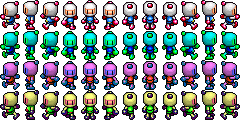
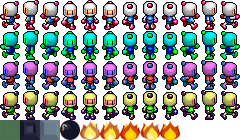
Before removing stuff for lesson.

diff --git a/client.go b/client.go
@@ -7,6 +7,7 @@ import (
 	"golang.org/x/image/colornames"
 	"image"
 	_ "image/png"
+	"math/rand"
 	"os"
 	"time"
 )
@@ -22,7 +23,9 @@ var (
 	win    *pixelgl.Window
 
 	sprite [4][4][4]*pixel.Sprite
+	tile   [12]*pixel.Sprite
 	batch  *pixel.Batch
+	level  [12][9]int
 )
 
 func loadImageFile(path string) (image.Image, error) {
@@ -62,13 +65,23 @@ func startClient() {
 		for j := 0; j < 4; j++ {
 			for k := 0; k < 3; k++ {
 				sprite[i][j][k] = pixel.NewSprite(spritePic,
-					pixel.R(float64(k+j*3)*20, float64(120-30*(i+1)), float64(k+j*3+1)*20, float64(120-30*i)))
+					pixel.R(float64(k+j*3)*20, float64(140-30*(i+1)), float64(k+j*3+1)*20, float64(140-30*i)))
 			}
 			sprite[i][j][3] = sprite[i][j][1]
 		}
 	}
 
+	for i := 0; i < 12; i++ {
+		tile[i] = pixel.NewSprite(spritePic, pixel.R(float64(i)*20, float64(0), float64(i+1)*20, float64(20)))
+	}
+
 	batch = pixel.NewBatch(&pixel.TrianglesData{}, spritePic)
+
+	for x := 0; x < 12; x++ {
+		for y := 0; y < 9; y++ {
+			level[x][y] = rand.Intn(3)
+		}
+	}
 
 	mainLoop()
 
@@ -86,6 +99,22 @@ func mainLoop() {
 				player[i].updatePosition()
 			}
 		default:
+		}
+
+		for x := 0; x <= 13; x++ {
+			for y := 0; y <= 10; y++ {
+				matrix := pixel.IM.Rotated(pixel.ZV, 0).Scaled(pixel.ZV, 4).Moved(pixel.Vec{X: float64(x)*80 - 8, Y: float64(y)*80 - 16})
+				var t int
+
+				if x == 0 || y == 0 || x == 13 || y == 10 {
+					t = 1
+				} else {
+					t = level[x-1][y-1]
+				}
+
+				tile[t].Draw(batch, matrix)
+
+			}
 		}
 
 		for i := range player {

diff --git a/player.go b/player.go
@@ -141,7 +141,7 @@ func (p *Player) draw() {
 
 	}
 
-	matrix := pixel.IM.Rotated(pixel.ZV, 0).Scaled(pixel.ZV, 4).Moved(pixel.Vec{X: p.screenX, Y: p.screenY})
+	matrix := pixel.IM.Rotated(pixel.ZV, 0).Scaled(pixel.ZV, 4).Moved(pixel.Vec{X: p.screenX - 8, Y: p.screenY - 16})
 	sprite[p.spriteRow][p.direction][p.frame].Draw(batch, matrix)
 
 }
